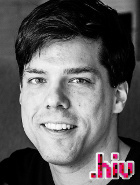
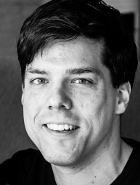
Updated.

diff --git a/WerMachtDas.md b/WerMachtDas.md
@@ -89,12 +89,12 @@ Freiberufler / [Martin Kraft // Interaktionsdesign](http://www.martinkraft.com/)
 
 ![Markus Tacker](./Team/img/markus.jpg)
 **[Markus Tacker](http://cto.hiv/)**  
-[dotHIV Initiative](https://click4life.hiv/) | Chief Technical Officer
+[Fintura](https://fintura.de/) | Chief Technical Officer
 
 *Ich unterstütze das BarCamp RheinMain,* weil es für mich die spannendste Veranstaltung im RheinMain-Gebiet ist und ich möchte, dass auch im nächsten Jahr ein BarCamp RheinMain statt findet.
 
 *Twitter:* [@coderbyheart](https://twitter.com/coderbyheart)  
-*Tags:* #dotHIV #softwarecraftsmanship #futureofwork
+*Tags:* #futureofwork #softwarecraftsmanship #startups
 
 ----
 
